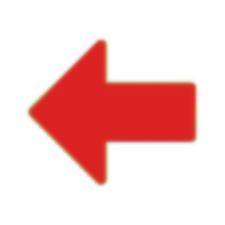
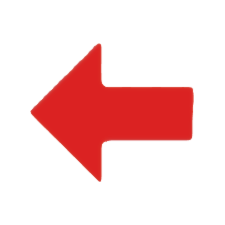
fixed some menu graphics

Changed region(s): [[0.0933, 0.1556, 0.9022, 0.84]]

diff --git a/main.py b/main.py
@@ -50,7 +50,7 @@ wave_offset_increment = 2.0
 base_y = water_box_start_y - (75 * amplitude)
 water_box_rect = Rect(water_start_x, water_box_start_y, water_width, water_box_height)
 title_location_x = screen_width * .22
-title_location_y = screen_height * .04
+title_location_y = screen_height * .05
 title_width = screen_width * .59
 title_height = screen_height * .18
 grass_location1_x = screen_width * .1
@@ -59,12 +59,12 @@ grass_location2_x = screen_width * .27
 grass_location2_y = screen_height * .46
 grass_location3_x = screen_width * .78
 grass_location3_y = screen_height * .34
-menu_button_image_location_x = screen_width * .43
-easy_button_image_location_y = screen_height * .22
-hard_button_image_location_y = screen_height * .31
-options_button_image_location_y = screen_height * .40
-instructions_button_image_location_y = screen_height * .49
-leaderboard_button_image_location_y = screen_height * .58
+menu_button_image_location_x = screen_width * .44
+easy_button_image_location_y = screen_height * .28
+hard_button_image_location_y = screen_height * .36
+options_button_image_location_y = screen_height * .44
+instructions_button_image_location_y = screen_height * .52
+leaderboard_button_image_location_y = screen_height * .60
 
 
 def close():

diff --git a/simulation.py b/simulation.py
@@ -262,9 +262,9 @@ def run_simulation(game_graph, boat_size):
         boat_count = 0
         for unit in boat.units:
             if boat.side == 0:
-                boat_button = menu_button.Unit_Button(unit, screen_width * 0.34, screen_height * (0.5 + (boat_count / 11)), unit_images[unit])
+                boat_button = menu_button.Unit_Button(unit, screen_width * 0.37, screen_height * (0.5 + (boat_count / 11)), unit_images[unit])
             else:
-                boat_button = menu_button.Unit_Button(unit, screen_width * 0.68, screen_height * (0.5 + (boat_count / 11)), unit_images[unit])
+                boat_button = menu_button.Unit_Button(unit, screen_width * 0.71, screen_height * (0.5 + (boat_count / 11)), unit_images[unit])
             unit_buttons_boat[unit] = (boat_button)
             boat_count += 1
 

diff --git a/menu_button.py b/menu_button.py
@@ -13,7 +13,7 @@ class Button:
     def __init__(self, x, y, image):
         width = root.winfo_screenwidth()
         height = root.winfo_screenheight()
-        self.image = pygame.transform.scale(image, (int(width * .14), int(height * .08)))
+        self.image = pygame.transform.scale(image, (int(width * .12), int(height * .07)))
         self.rect = self.image.get_rect()
         self.rect.topleft = (x, y)
         self.clicked = False
